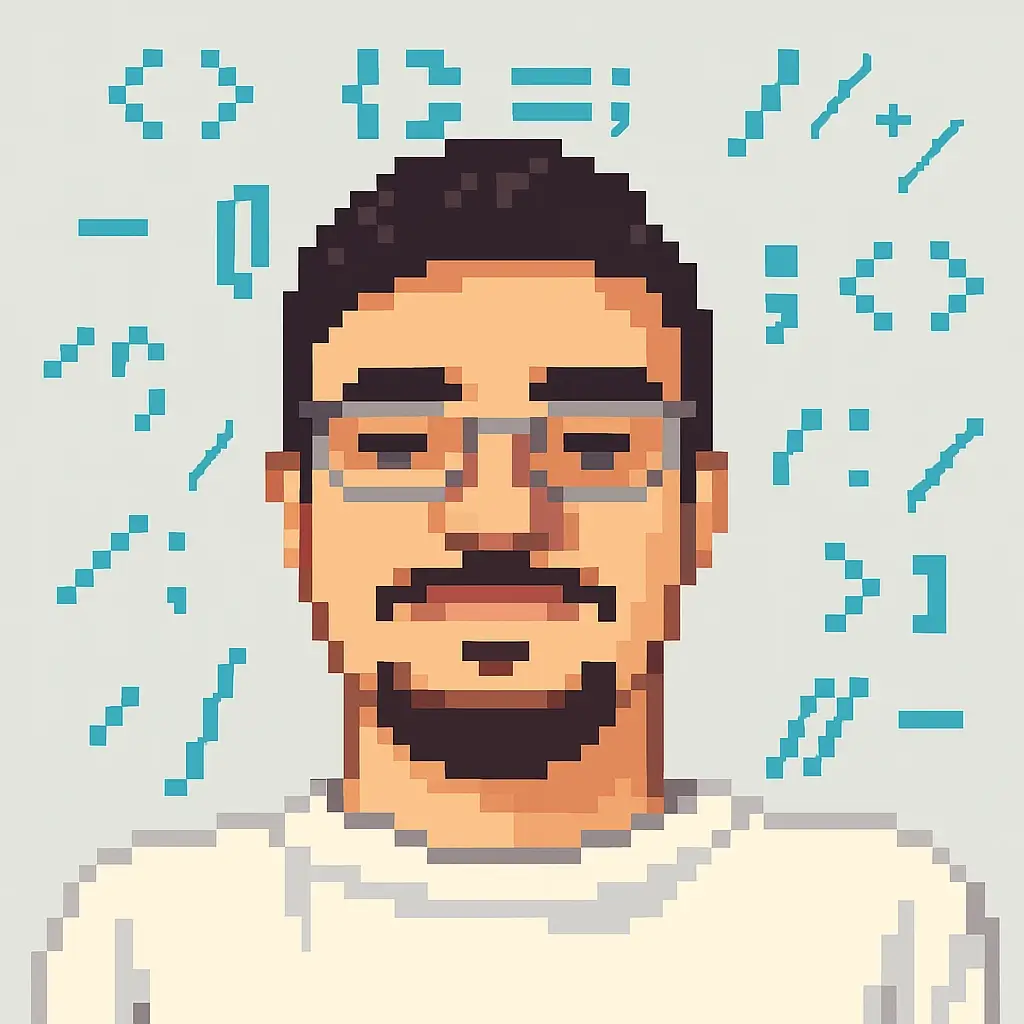
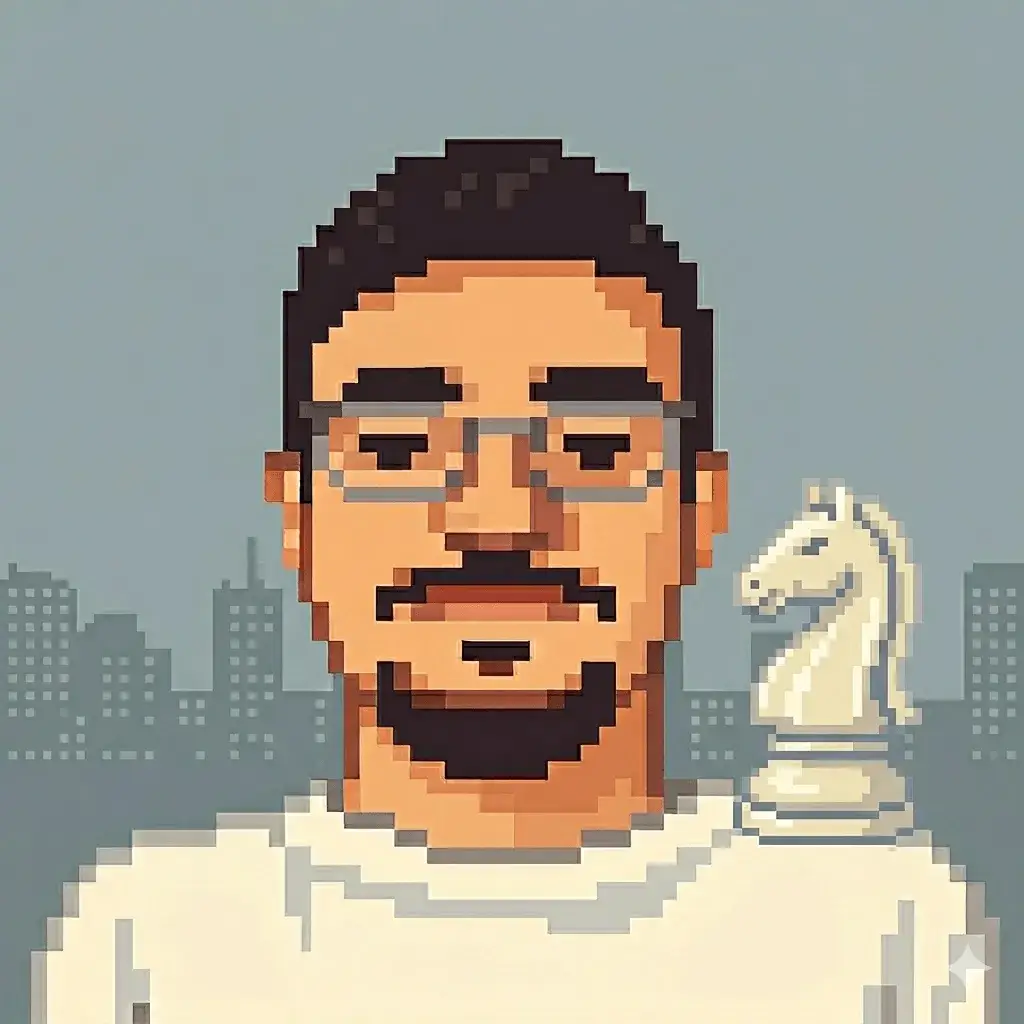
chore: update page title, portrait, and contribution data

diff --git a/index.html b/index.html
@@ -8,7 +8,7 @@
     <link rel="stylesheet" href="./src/styles/index.css">
     <link rel="preconnect" href="https://fonts.googleapis.com">
     <link rel="preconnect" href="https://fonts.gstatic.com" crossorigin>
-    <title>Abdallah Aziz | Frontend Dev</title>
+    <title>Abdallah Aziz | Frontend Developer | Mentor | Contributor</title>
   </head>
   <body>
     <div id="root"></div>
